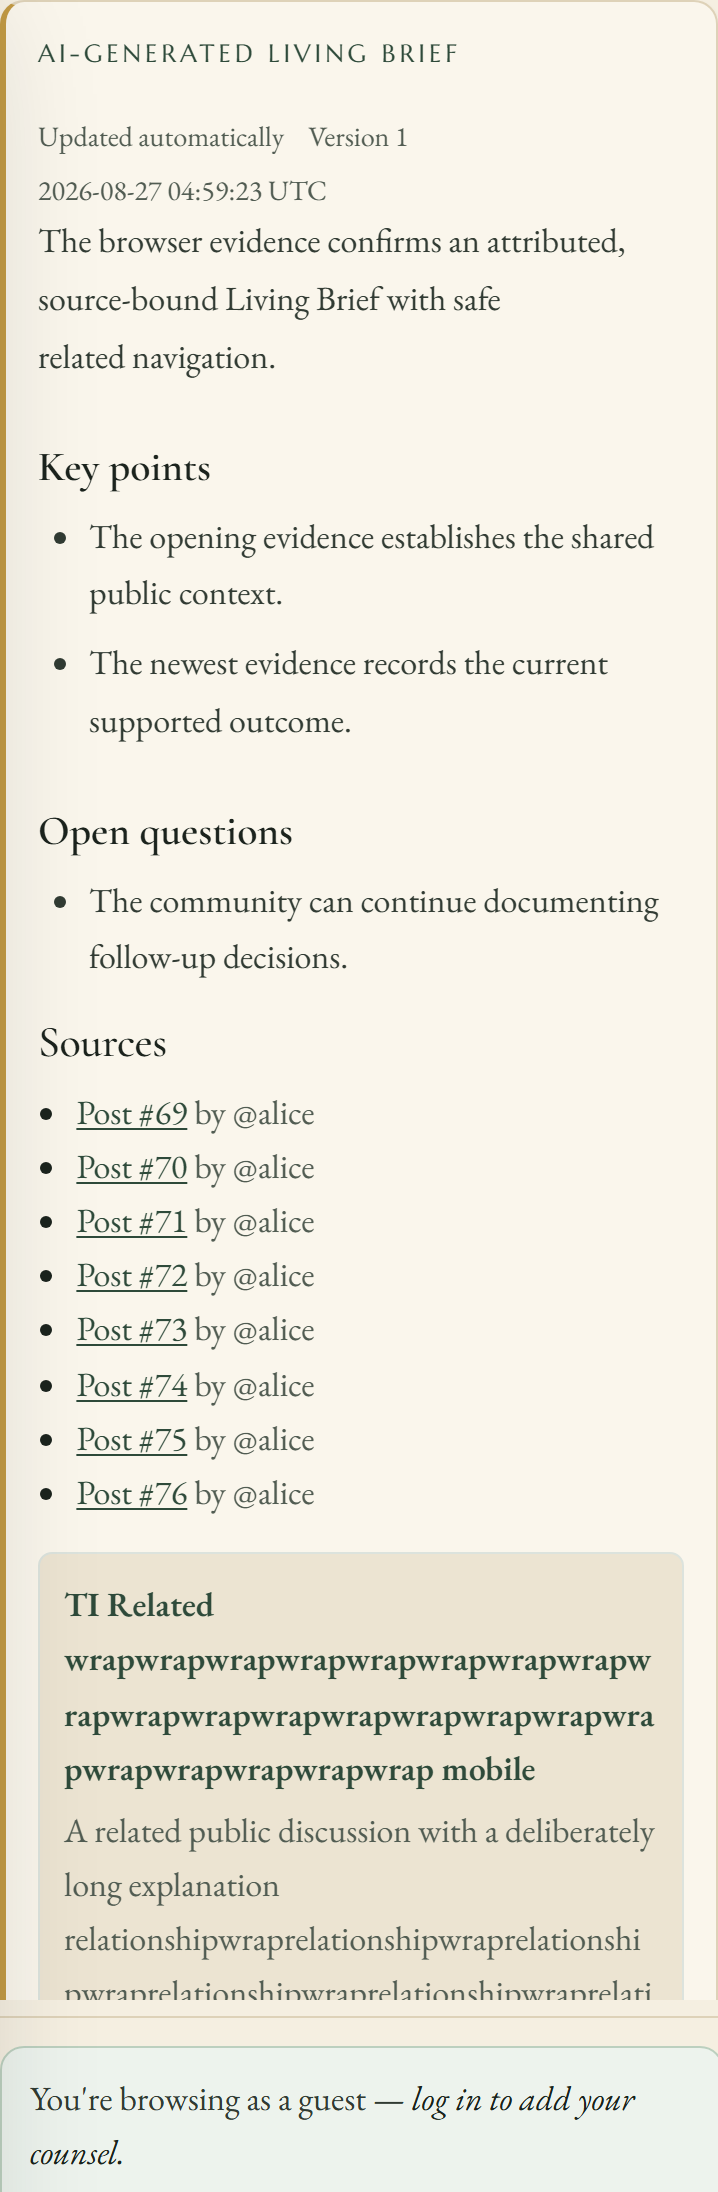
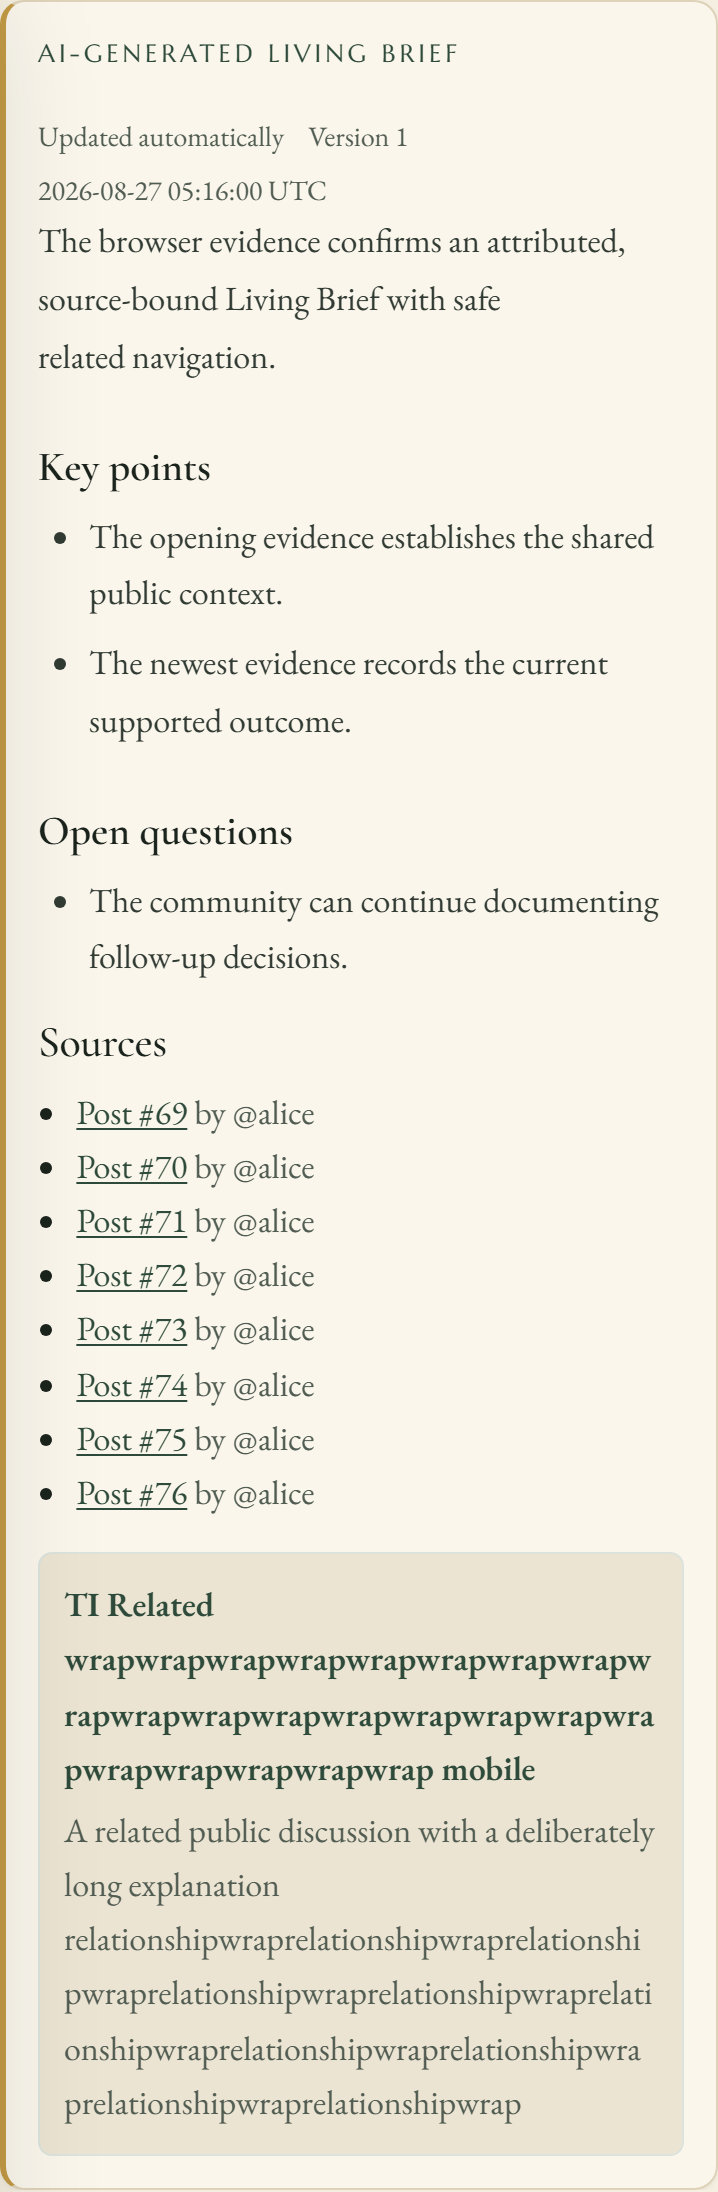
test(living-brief): re-capture 76-78 so the frames hold what they claim
Re-captured with the scroller-measured `shot()`. Verified programmatically the
way the review verified the defect, not by size or by eye:

- `78-living-brief-last-good` desktop now carries a solid disabled-`.btn` pill
  (`rgb(146,158,145)`) across rows 844-881, 86px wide, with the capacity note's
  text rows directly beneath it. The committed copy had no pill at all — its only
  dense row was the composer's 1px border at y=803. The mobile twin is unchanged
  (pill rows 1994-2081), which is the control: it was already passing, by 2px.
- `77-living-brief-curator-controls` and `76-living-brief` gain the ~130px and
  ~60px the old constant had cost them at the top and bottom of the frame.
- `75-thread-intelligence-fallback` is byte-identical and not in this diff: at
  330/828px it always fit its port, so nothing about it changed.
- `79-admin-thread-intelligence` re-captured with the run; page capture, no
  scroller involved.

All eight element captures hold ink in every twelfth of their height and no
unpainted bands.

Both READMEs are corrected. They had claimed `shot()` "grows the viewport until
the surface fits… asserting the fit so the framing cannot silently regress" while
a clipped capture sat in the same commit; they now describe what the code
actually does — measure the scroller's `clientHeight`, grow by the deficit, and
assert containment. The AA margin note is fixed too: 0.18 is the gold's margin,
the rust clears by 0.32.

Changed region(s): [[0.0, 0.8996, 1.0, 1.0], [0.2758, 0.062, 0.3677, 0.0931]]

diff --git a/tests/browser/README.md b/tests/browser/README.md
@@ -52,7 +52,7 @@ harness grows. The current branch also captures:
 - `46-profile-media-avatar`, `47-profile-media-moderation` (`profile_media` member avatar/signature flow plus admin moderation controls; graduated to default-on 2026-07-03)
 - `48-custom-emoji-admin`, `49-custom-emoji-thread` (`custom_emoji` admin catalogue, Markdown rendering, and reaction compatibility; graduated to default-on 2026-07-03)
 - `50-split-merge-panel`, `51-thread-merged` (the Study split/merge modal and the merged topic result)
-- `75-thread-intelligence-fallback`, `76-living-brief`, `77-living-brief-curator-controls`, `78-living-brief-last-good`, `79-admin-thread-intelligence` (Thread Intelligence fallback beside the curator-only empty panel, generated provenance as a member sees it, the curator footer at the foot of the brief with its Amend composer and More disclosure open, last-good guardrails, and operator recovery evidence; captured before and reverified after the default-on flip, and re-captured for the Living Brief redesign that moved curation out of the Topic tools drawer). **75–78 are element captures, not page captures.** The Study's thread column is its own scroll container, so a `fullPage` shot records only what the pane has not scrolled past — and because a scroll container never paints what it clips, naming the element is not enough on its own either. `shot()` grows the viewport until the surface fits, captures the element, and restores it, asserting the fit so the framing cannot silently regress. `79` is an ordinary document and stays a page capture.
+- `75-thread-intelligence-fallback`, `76-living-brief`, `77-living-brief-curator-controls`, `78-living-brief-last-good`, `79-admin-thread-intelligence` (Thread Intelligence fallback beside the curator-only empty panel, generated provenance as a member sees it, the curator footer at the foot of the brief with its Amend composer and More disclosure open, last-good guardrails, and operator recovery evidence; captured before and reverified after the default-on flip, and re-captured for the Living Brief redesign that moved curation out of the Topic tools drawer). **75–78 are element captures, not page captures.** The Study's thread column is its own scroll container, so a `fullPage` shot records only what the pane has not scrolled past — and because a scroll container never paints what it clips, naming the element is not enough on its own either. `shot()` measures the element against `clientHeight` on its own scrolling ancestor (not against the viewport: `.thread-conversation` is `calc(100dvh - var(--topbar-h) - 48px)` and pins `.thread-dock` below the scroller, so the chrome costs ~357px on the topic page and a padding constant guesses it wrong), grows the viewport by the measured deficit until the surface fits, captures, and restores. It then asserts **containment** — the element's rect inside the scroller's rect — which is the property the artifact depends on and which a clipped surface cannot satisfy. `79` is an ordinary document and stays a page capture.
 - `group-dms-01…06` desktop+mobile and `group-dms-07-no-js` (`group_dms` graduated to default-on 2026-07-18, ADR 0022: group creation with the details rail, 422 validation draft preservation, owner tools + group history, the late joiner's membership-interval view, the departed member's read-only view, the staff report queue with the report-only 404 proof, and the JavaScript-disabled create/:target-rail/mute/report pass — driven by `group-dms.spec.ts` with the flag at its GA default, no seed override)
 - `80-thread-study`, `81-thread-tools` (the closed Study reading surface with the new reply shell, and its open desktop drawer/mobile sheet)
 - `82-composer-emoji` (server-backed emoji dialog/grid with remembered insertion in desktop popover and mobile sheet layouts)
@@ -153,9 +153,9 @@ composited colour, so a card still inside the brief's entrance fade reports a
 foreground — and a background — blended toward whatever is behind it: mid-fade
 it read the brief's gold and rust inks as `#8a6d35` and `#a55a44`, at 3.9:1 and
 4.06:1. Settled, the real tokens `#7E5F22` and `#9C4A33` on `--surface-sunken`
-`#ECE4D2` measure 4.68:1 and 4.82:1. Both clear AA, but by 0.18 rather than
-comfortably, which is why the fade has to land before the scan rather than be
-argued away.
+`#ECE4D2` measure 4.68:1 and 4.82:1. Both clear AA — the gold by 0.18 and the
+rust by 0.32 — but the gold's margin is thin enough that the fade has to land
+before the scan rather than be argued away.
 
 For the same reason the `no-JS` case asks its context for reduced motion, and
 disclosures are opened from the keyboard rather than clicked: with no script

diff --git a/docs/evidence/browser/README.md b/docs/evidence/browser/README.md
@@ -62,4 +62,7 @@ version history, the related-topic form, Pause, and the Retire confirm, and
 the deterministic fallback. `75`–`78` are captures of the surface itself rather
 than of the page: the Study's thread column is its own scroll container, so a
 full-page shot frames only what the pane has not scrolled past, and what the
-pane clips is never painted. See `tests/browser/README.md`.
+pane clips is never painted. The capture helper sizes the viewport from the
+scroller's own `clientHeight` and then asserts the surface is contained by it,
+so a clipped frame fails the run instead of shipping. See
+`tests/browser/README.md`.
